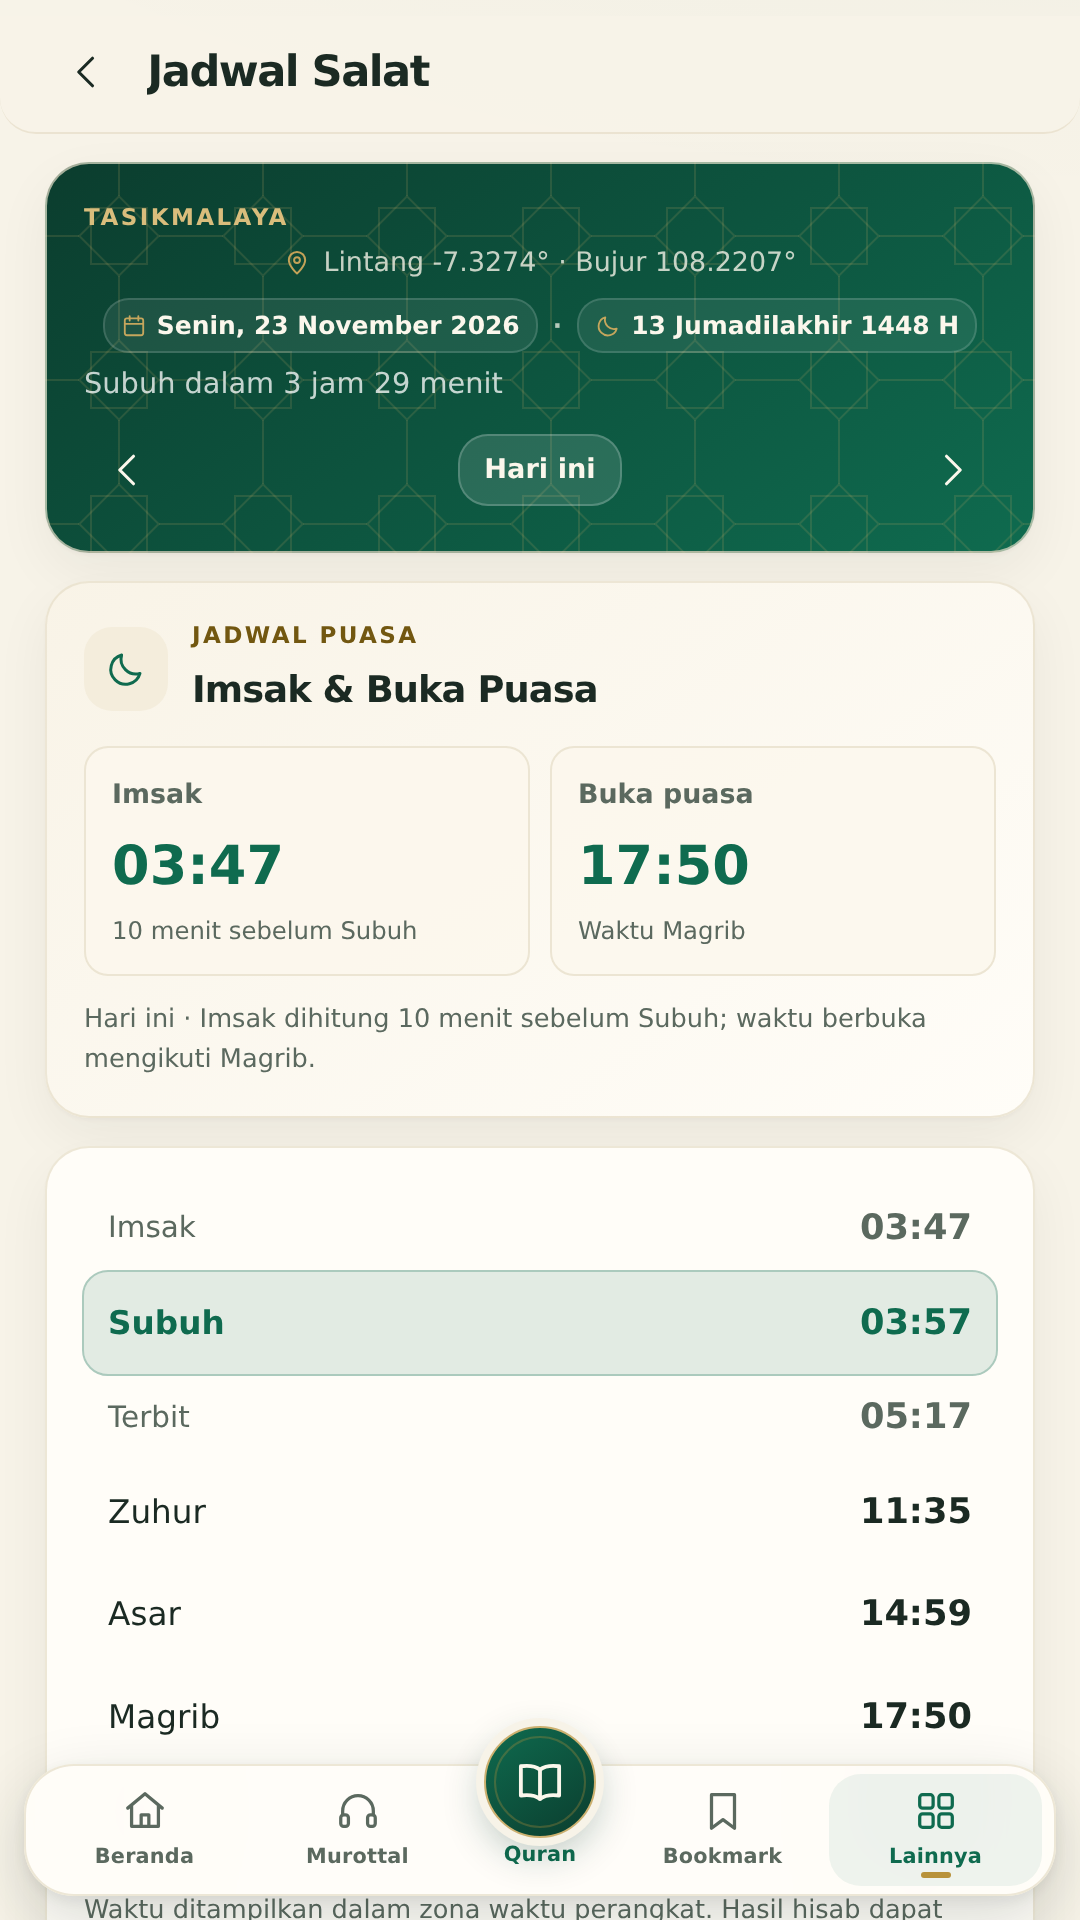
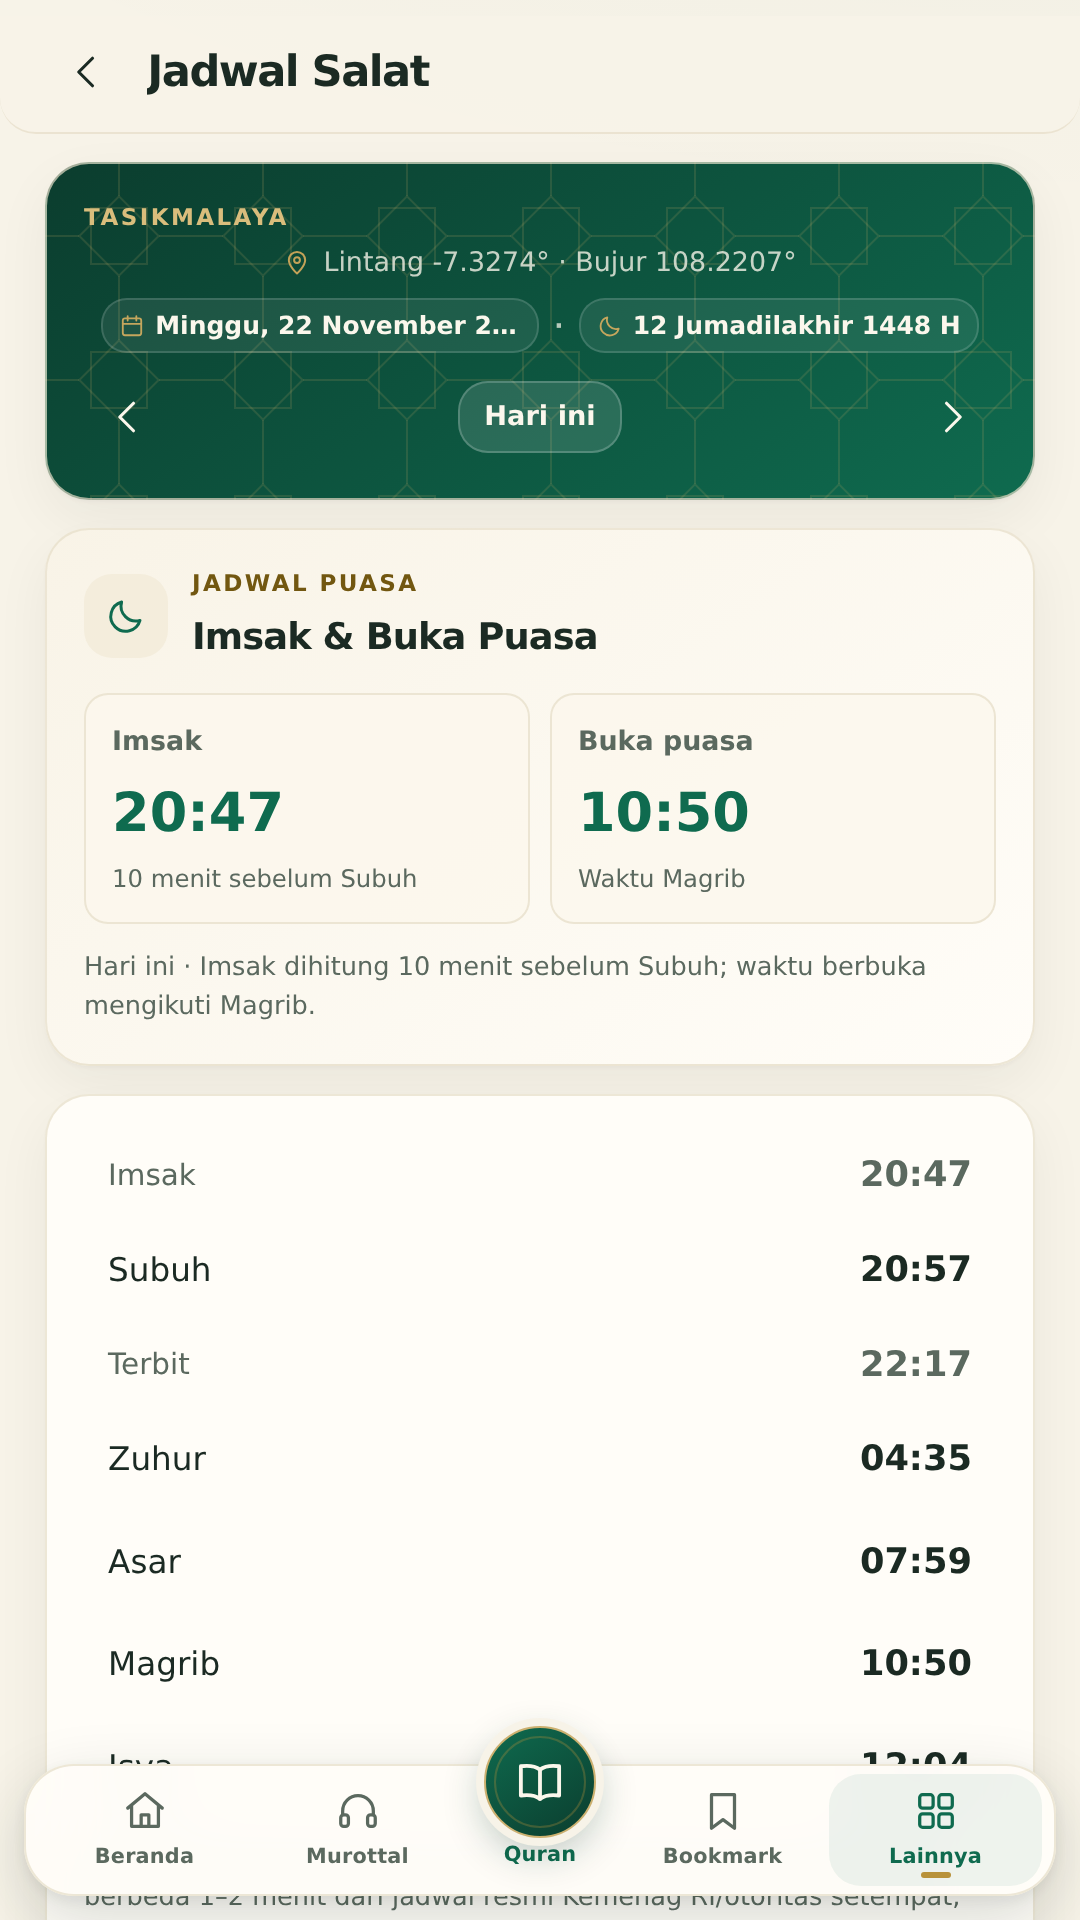
fix(play): skrip screenshot memaksa zona waktu Indonesia & berhenti di 8 gambar
Dua bug dari PR #72 yang baru ketahuan saat menjalankan skrip di mesin bersih:

1. Zona waktu tidak dipaksa. Skrip hanya MENDOKUMENTASIKAN "pakai TZ=Asia/Jakarta",
   padahal kodonya tidak menetapkannya. Dijalankan tanpa TZ (mesin UTC), hasilnya:
   Imsak 20:47 · Subuh 20:57 · Zuhur 04:35 · Magrib 10:50 · Isya 12:04 — jam yang
   mustahil, dan skrip tetap "sukses" mengeluarkan 9 PNG. Screenshot seperti itu
   tidak boleh sampai ke Play Store.
   Perbaikan: process.env.TZ = 'Asia/Jakarta' bila belum di-set (nilai dari
   lingkungan tidak ditimpa, jadi TZ=Asia/Makassar tetap bisa dipakai).

2. Skrip masih menghasilkan 9 gambar. Komentar "berhenti di 8" sudah ditulis, tetapi
   await shot('09-infaq-papan.png') tidak pernah dihapus. Play menolak lebih dari 8.
   Perbaikan: shot ke-9 dihapus.

Penjaga baru di dalam skrip (bukan hanya tes): setelah halaman Salat dirender, skrip
membaca .prayer-list li dan memastikan Subuh 00:00–08:00, Zuhur 10:00–14:00, Magrib
15:00–20:00, serta urutan Subuh→Zuhur→Asar→Magrib→Isya menaik. Bila tidak, skrip
BERHENTI dengan pesan "tidak masuk akal (zona waktu salah?)" alih-alih diam-diam
menghasilkan gambar salah. Dibuktikan: TZ=UTC sekarang menggagalkan skrip.

Tes baru "skrip screenshot Play: memaksa TZ Indonesia, maksimal 8 gambar, dan
memeriksa jam salat" membaca sumber skrip: TZ harus ditetapkan sebelum render
pertama, jumlah await shot() <= 8 dan berurutan, serta penjaga jam salat harus ada.
[…]

diff --git a/store/listing-id.md b/store/listing-id.md
@@ -72,6 +72,9 @@ Play (sisi 320–3840 px, rasio maksimum 2:1, PNG tanpa transparansi, maksimum 8
 | 7 | `07-asmaul-husna.png` | 99 nama Allah dengan kartu arti |
 | 8 | `08-offline.png` | Kelola Offline: penyimpanan, unduh surah |
 
+Play menerima **maksimal 8** screenshot per jenis perangkat, jadi daftar ini berhenti di 8 — skrip
+sebelumnya masih membuat gambar ke-9 (halaman Infaq) sehingga melewati batas.
+
 **Urutan ini disengaja**: Play hanya menampilkan ~2 gambar pertama tanpa digeser, jadi Beranda
 (siapa aplikasi ini) dan daftar surah (isi utamanya) ditaruh paling depan.
 
@@ -81,12 +84,15 @@ Cara membuat ulang:
 npm ci
 npm run build
 npm run gen:shots:app          # butuh Chromium; set CHROME_PATH bila tidak di lokasi standar
-TZ=Asia/Jakarta npm run gen:shots:app   # penting: tanpa TZ, jam salat tampil dalam UTC
 ```
 
-> **Waktu di screenshot.** Jadwal salat dihitung lokal memakai `getHours()`, jadi hasilnya mengikuti zona
-> waktu perangkat yang menjalankan skrip. Di mesin UTC, Subuh tampil 20:57 — angka yang salah untuk pembaca
-> Indonesia. Selalu jalankan dengan `TZ=Asia/Jakarta` (atau zona Indonesia lain yang sesuai).
+> **Zona waktu sudah ditangani skrip.** Jadwal salat dihitung lokal memakai `getHours()`, jadi hasilnya
+> mengikuti zona waktu mesin. Di mesin UTC, Subuh tampil 20:57 dan Magrib 10:50 — angka yang mustahil.
+> Skrip kini menetapkan `process.env.TZ = 'Asia/Jakarta'` sendiri, dan **memeriksa** jam hasil render
+> (Subuh 00:00–08:00, Zuhur 10:00–14:00, Magrib 15:00–20:00, serta urutan wajib yang menaik). Bila
+> pemeriksaan itu gagal, skrip berhenti dengan pesan jelas alih-alih menghasilkan screenshot salah.
+>
+> Mengganti zona: `TZ=Asia/Makassar npm run gen:shots:app` (nilai dari lingkungan tidak ditimpa).
 
 Data screenshot berasal dari `scripts/play-shots-fixture.mjs`: teks Arab asli dari `public/data/`
 (paket `quran-json`), terjemahan contoh untuk beberapa ayat, dan tanpa jaringan sama sekali.

diff --git a/store/release-notes.md b/store/release-notes.md
@@ -4,7 +4,7 @@ Teks untuk **Play Console → Test and release → Rilis → "Apa yang baru"** (
 Batas resmi: **500 karakter per bahasa**. Satu catatan per rilis; rilis berikutnya menimpa yang lama,
 jadi catatan ini hanya perlu memuat perubahan sejak versi yang sedang dipakai pengguna.
 
-## 1.4.44 — 22 November 2026 (untuk rilis yang akan datang)
+## 1.4.45 — 22 November 2026 (untuk rilis yang akan datang)
 
 ```
 Tautan quran.cgs.my.id dari WhatsApp kini terbuka langsung di aplikasi, tepat pada surah, ayat, atau jadwal salat yang dituju. Alamat halaman juga lebih bersih tanpa tanda #.
@@ -15,8 +15,8 @@ Perbaikan: Kelola Offline normal, tidak ada halaman kosong pada tautan rusak, no
 
 **429/500 karakter.** Aman bila Play menghitung spasi/baris baru (sebagian penghitung melakukannya).
 
-Perubahan di 1.4.44 hanya dokumen (deskripsi listing & catatan rilis) serta skrip screenshot —
-tidak ada perubahan yang terlihat pengguna, jadi isi catatan rilis tidak berubah dari draf 1.4.43.
+1.4.44–1.4.45 hanya menyentuh dokumen (deskripsi listing, catatan rilis) dan skrip pembuat
+screenshot — tidak ada perubahan yang terlihat pengguna, jadi isinya tidak berubah dari draf 1.4.43.
 
 ### Mengapa kalimatnya begitu
 
